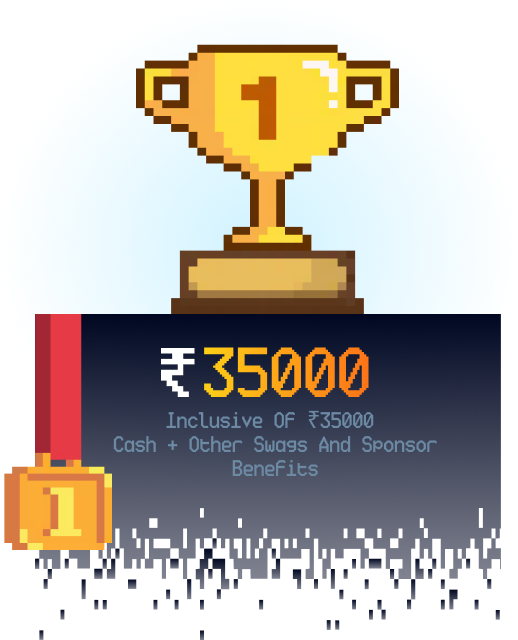
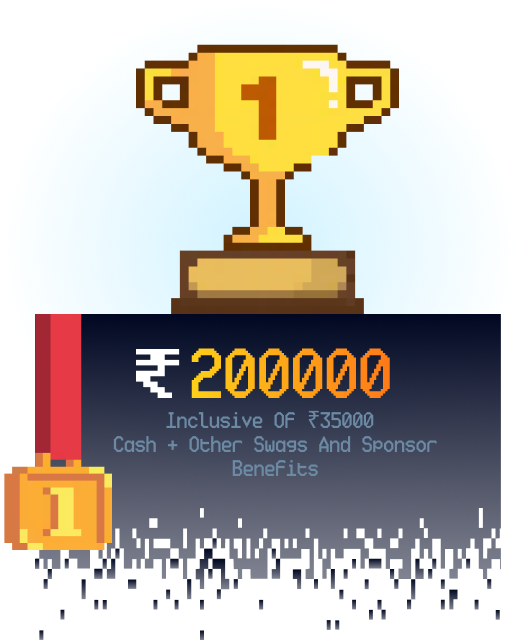
Added Prizes and GFG in SP

Changed region(s): [[0.2471, 0.5312, 0.7722, 0.625]]

diff --git a/src/app/Pages/Prizes.jsx b/src/app/Pages/Prizes.jsx
@@ -21,8 +21,8 @@ const Prizes = () => {
       {/* Main Prizes Section */}
       <div className="hidden md:flex flex-row items-center justify-center gap-10 pt-40">
         <img
-          src="/Trophy 3.png"
-          alt="Trophy 3"
+          src="/Trophy 2.png"
+          alt="Trophy 2"
           className="w-100 h-100 relative z-[3]"
         />
         <img
@@ -31,8 +31,8 @@ const Prizes = () => {
           className="w-100 h-120 relative z-[3]"
         />
         <img
-          src="/Trophy 2.png"
-          alt="Trophy 2"
+          src="/Trophy 3.png"
+          alt="Trophy 3"
           className="w-100 h-100 relative z-[3]"
         />
       </div>
@@ -64,11 +64,11 @@ const Prizes = () => {
           />
           {/* Text overlay for first image */}
           <div className="absolute inset-0 flex items-center justify-center z-[4] px-4">
-            <span className="text-white font-ticketing text-2xl flex justify-between w-full max-w-[320px]">
-              BEST FRESHER TEAM{" "}
+            <span className="text-white font-ticketing text-2xl flex justify-between w-full max-w-[400px]">
+              VULTR CLOUD DEPLOYMENT{" "}
               <span className="text-[#FE2F41] font-ticketing text-3xl">
                 {" "}
-                $120
+                $287
               </span>
             </span>
           </div>
@@ -83,11 +83,11 @@ const Prizes = () => {
           />
           {/* Text overlay for second image */}
           <div className="absolute inset-0 flex items-center justify-center z-[4] px-4">
-            <span className="text-white font-ticketing text-2xl flex justify-between w-full max-w-[320px]">
-              ALL GIRLS TEAM{" "}
+            <span className="text-white font-ticketing text-2xl flex justify-between w-full max-w-[400px]">
+              ETHIndia Track{" "}
               <span className="text-[#FE2F41] font-ticketing text-3xl">
                 {" "}
-                $120
+                $100
               </span>
             </span>
           </div>
@@ -102,13 +102,50 @@ const Prizes = () => {
             className="w-140 h-20 relative z-[3] object-contain"
           />
           {/* Text overlay for first image */}
+          <div className="absolute inset-0 flex items-center justify-center z-[4] px-5">
+            <div className="flex flex-col w-full max-w-[480px]">
+              <h3 className="text-white font-ticketing text-2xl leading-tight">
+                Best Use of Gemini API
+              </h3>
+              <p className="text-[10px] md:text-sm font-ticketing leading-snug mt-1 tracking-wide text-white">
+                <span className="text-[#FE2F41] font-semibold">Win Google Swags for best use of Gemini API</span>
+              </p>
+            </div>
+          </div>
+        </div>
+
+        {/* Second image with text overlay */}
+        <div className="relative">
+          <img
+            src="/Group.png"
+            alt="Trophy"
+            className="w-140 h-20 relative z-[3] object-contain"
+          />
+          {/* Text overlay for second image */}
+          <div className="absolute inset-0 flex items-center justify-center z-[4] px-5">
+            <div className="flex flex-col w-full max-w-[480px]">
+              <h3 className="text-white font-ticketing text-2xl leading-tight">
+                Best Use of MongoDB Atlas
+              </h3>
+              <p className="text-[10px] md:text-sm font-ticketing leading-snug mt-1 tracking-wide text-white">
+              <span className="text-[#FE2F41] font-semibold">Win a M5GO IoT Starter Kit</span>
+              </p>
+            </div>
+          </div>
+        </div>
+      </div>
+      <div className="flex flex-col md:flex-row items-center justify-center gap-10 pt-10">
+        <div className="relative">
+          <img
+            src="/Group.png"
+            alt="Trophy"
+            className="w-140 h-20 relative z-[3] object-contain"
+          />
+          {/* Text overlay for first image */}
           <div className="absolute inset-0 flex items-center justify-center z-[4] px-4">
-            <span className="text-white font-ticketing text-2xl flex justify-between w-full max-w-[320px]">
+            <span className="text-white font-ticketing text-2xl flex justify-between w-full max-w-[400px]">
               BEST FRESHER TEAM{" "}
-              <span className="text-[#FE2F41] font-ticketing text-3xl">
-                {" "}
-                $120
-              </span>
+              <span className="text-[#FE2F41] font-ticketing text-3xl"> $100<sup className="text-xs ml-0.5 relative -top-3">*</sup></span>
             </span>
           </div>
         </div>
@@ -122,12 +159,9 @@ const Prizes = () => {
           />
           {/* Text overlay for second image */}
           <div className="absolute inset-0 flex items-center justify-center z-[4] px-4">
-            <span className="text-white font-ticketing text-2xl flex justify-between w-full max-w-[320px]">
+            <span className="text-white font-ticketing text-2xl flex justify-between w-full max-w-[400px]">
               ALL GIRLS TEAM{" "}
-              <span className="text-[#FE2F41] font-ticketing text-3xl">
-                {" "}
-                $120
-              </span>
+              <span className="text-[#FE2F41] font-ticketing text-3xl"> $100<sup className="text-xs ml-0.5 relative -top-3">*</sup></span>
             </span>
           </div>
         </div>
@@ -141,73 +175,18 @@ const Prizes = () => {
           />
           {/* Text overlay for first image */}
           <div className="absolute inset-0 flex items-center justify-center z-[4] px-4">
-            <span className="text-white font-ticketing text-2xl flex justify-between w-full max-w-[320px]">
-              BEST FRESHER TEAM{" "}
-              <span className="text-[#FE2F41] font-ticketing text-3xl">
-                {" "}
-                $120
-              </span>
+            <span className="text-white font-ticketing text-2xl flex justify-between w-full max-w-[400px]">
+              Quantitative finance track{" "}
+              <span className="text-[#FE2F41] font-ticketing text-3xl"> $50<sup className="text-xs ml-0.5 relative -top-3">*</sup></span>
             </span>
           </div>
         </div>
 
-        {/* Second image with text overlay */}
-        <div className="relative">
-          <img
-            src="/Group.png"
-            alt="Trophy"
-            className="w-140 h-20 relative z-[3] object-contain"
-          />
-          {/* Text overlay for second image */}
-          <div className="absolute inset-0 flex items-center justify-center z-[4] px-4">
-            <span className="text-white font-ticketing text-2xl flex justify-between w-full max-w-[320px]">
-              ALL GIRLS TEAM{" "}
-              <span className="text-[#FE2F41] font-ticketing text-3xl">
-                {" "}
-                $120
-              </span>
-            </span>
-          </div>
-        </div>
       </div>
-      <div className="flex flex-col md:flex-row items-center justify-center gap-10 pt-10">
-        <div className="relative">
-          <img
-            src="/Group.png"
-            alt="Trophy"
-            className="w-140 h-20 relative z-[3] object-contain"
-          />
-          {/* Text overlay for first image */}
-          <div className="absolute inset-0 flex items-center justify-center z-[4] px-4">
-            <span className="text-white font-ticketing text-2xl flex justify-between w-full max-w-[320px]">
-              BEST FRESHER TEAM{" "}
-              <span className="text-[#FE2F41] font-ticketing text-3xl">
-                {" "}
-                $120
-              </span>
-            </span>
-          </div>
-        </div>
-
-        {/* Second image with text overlay */}
-        <div className="relative">
-          <img
-            src="/Group.png"
-            alt="Trophy"
-            className="w-140 h-20 relative z-[3] object-contain"
-          />
-          {/* Text overlay for second image */}
-          <div className="absolute inset-0 flex items-center justify-center z-[4] px-4">
-            <span className="text-white font-ticketing text-2xl flex justify-between w-full max-w-[320px]">
-              ALL GIRLS TEAM{" "}
-              <span className="text-[#FE2F41] font-ticketing text-3xl">
-                {" "}
-                $120
-              </span>
-            </span>
-          </div>
-        </div>
-      </div>
+      {/* Inclusive note */}
+      <p className="mt-6 text-[10px] md:text-sm font-ticketing tracking-wide text-center text-white/80 max-w-3xl">
+        <span className="text-[#FE2F41]"><sup className="text-xs ml-0.5 relative -top-1">*</sup></span>Inclusive of ₹2000 cash + other swags and sponsor benefits
+      </p>
     </div>
   );
 };

diff --git a/src/app/Pages/Sponsors.jsx b/src/app/Pages/Sponsors.jsx
@@ -91,6 +91,12 @@ const Sponsors = () => {
 
     ];
 
+    const educationPartner = [
+        { name: "GFG", logo: "/GFG.png" },
+
+
+    ];
+
     return (
         <div id="sponsors" className="min-h-auto w-auto flex flex-col items-center z-30 gap-40 sm:-mt-20 lg:-mt-10 overflow-hidden">
             <div className="relative mb-10 ">
@@ -108,6 +114,7 @@ const Sponsors = () => {
                 <SponsorFrame frameImage="/Frame 72.svg" sponsors={platinumSponsors} type="platinum" />
                 <SponsorFrame frameImage="/Frame 73.svg" sponsors={goldSponsors} type="gold" />
                 <SponsorFrame frameImage="/Frame 74.svg" sponsors={silverSponsors} type="silver" />
+                <SponsorFrame frameImage="/Frame 76.png" sponsors={educationPartner} type="education" />
                 <SponsorFrame frameImage="/Frame 70.svg" sponsors={venuePartner} type="venue" />
             </div>
         </div>

diff --git a/src/app/Pages/Third.jsx b/src/app/Pages/Third.jsx
@@ -53,7 +53,7 @@ const slides = [
                     Aug 23
                 </h2>
                 <p className="text-2xl md:text-3xl font-bold z-[3] bg-gradient-to-r from-[#7BD7FF] to-[#C893FF] text-transparent bg-clip-text">
-                    11:00 PM
+                    10:00 PM
                 </p>
                 <img src="/Group 64.png" alt="Mid Evaluation" className="bottom-27  w-64 relative z-[3] mt-16" />
             </div>
@@ -67,7 +67,7 @@ const slides = [
                     Aug 24
                 </h2>
                 <p className="text-2xl md:text-3xl font-bold z-[3] bg-gradient-to-r from-[#7BD7FF] to-[#C893FF] text-transparent bg-clip-text">
-                    04:00 PM
+                    02:00 PM
                 </p>
                 <img src="/Group 65.png" alt="Final Evaluation" className="bottom-27  w-64 relative z-[3] mt-16" />
             </div>

diff --git a/src/app/Pages/Navbar.jsx b/src/app/Pages/Navbar.jsx
@@ -115,7 +115,7 @@ const Navbar = () => {
             >
               SCHEDULE
             </p>
-            {/* <p className="text-lg md:text-lg lg:text-xl cursor-pointer hover:text-blue-300 transition-colors duration-300" onClick={() => scrollToSection("prizes")}>PRIZES</p> */}
+            <p className="text-lg md:text-lg lg:text-xl cursor-pointer hover:text-blue-300 transition-colors duration-300" onClick={() => scrollToSection("prizes")}>PRIZES</p>
             <p
               className="text-lg md:text-lg lg:text-xl cursor-pointer hover:text-blue-300 transition-colors duration-300"
               onClick={() => scrollToSection("tracks")}

diff --git a/src/app/Pages/Home.jsx b/src/app/Pages/Home.jsx
@@ -189,8 +189,8 @@ export default function Home() {
       <div className="mt-16 md:mt-36"></div>
       <Glimpse />
 
-      {/* <div className="hidden sm:flex mt-20 md:mt-40"></div>
-      <Prizes />  */}
+      <div className="hidden sm:flex mt-20 md:mt-40"></div>
+      <Prizes />  
 
       <div className="mt-20 md:mt-40"></div>
       <Cards />
